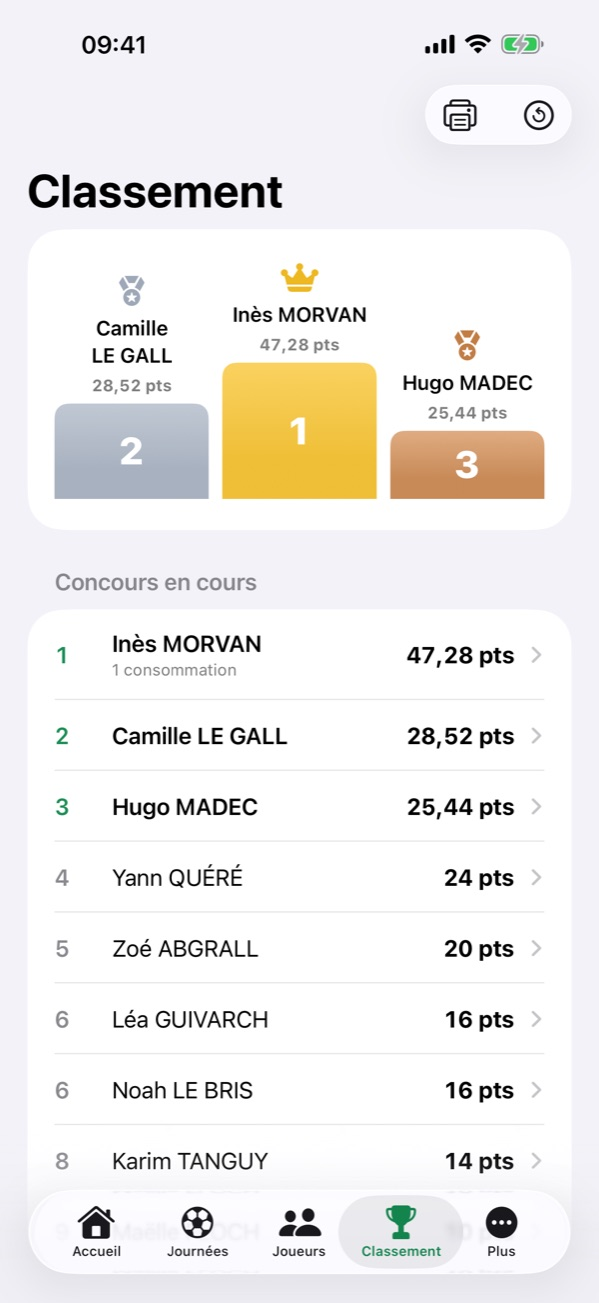
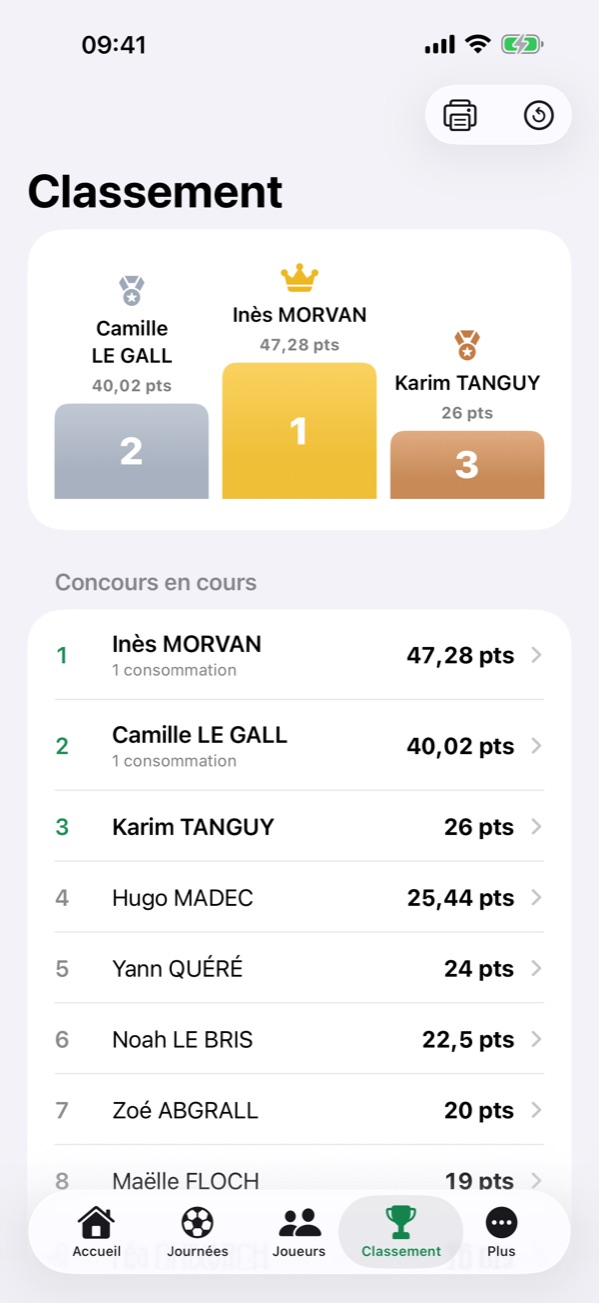
Points de fidélité : les achats au comptoir rapportent des points

diff --git a/conditions.html b/conditions.html
@@ -46,13 +46,17 @@
   <h2>3. Un jeu à points virtuels, sans argent</h2>
   <p>Bob 1N2 sert à organiser un concours de pronostics sportifs dont l'enjeu est un nombre de
   <strong>points virtuels</strong>. L'application ne permet de miser, gagner, acheter ni retirer
-  <strong>aucune somme d'argent</strong> : elle ne traite aucun paiement et ne vend aucun point.</p>
+  <strong>aucune somme d'argent</strong> : elle ne traite aucun paiement et ne vend aucun point. Si
+  vous activez les points de fidélité, elle enregistre le montant d'un achat réglé au comptoir pour
+  calculer les points qu'il rapporte, mais n'encaisse rien.</p>
   <p>Vous êtes l'organisateur du concours que vous tenez avec l'application : c'est vous qui
   décidez comment les joueurs obtiennent leurs points et ce qu'ils leur valent. Il vous appartient
   de respecter la réglementation applicable aux jeux et concours dans votre pays, notamment
   l'interdiction des jeux d'argent et de hasard non autorisés : en particulier, les points ne
-  doivent être ni vendus, ni échangés contre de l'argent. Les cotes saisies sont les vôtres ;
-  elles ne proviennent d'aucun opérateur de paris.</p>
+  doivent être ni vendus, ni échangés contre de l'argent. Si des points s'obtiennent en
+  consommant, vérifiez que votre concours respecte les règles applicables aux jeux et concours
+  liés à un achat. Les cotes saisies sont les vôtres ; elles ne proviennent d'aucun opérateur de
+  paris.</p>
   <p><strong>Apple n'est ni organisateur, ni sponsor, ni partenaire</strong> des concours tenus au
   moyen de l'application, et n'y est impliqué d'aucune manière.</p>
 

diff --git a/assistance.html b/assistance.html
@@ -152,8 +152,17 @@
   <p>Dans Réglages, « Code oublié ? » vous demande Face ID, Touch ID ou le code de l'appareil : une fois
   reconnu, vous choisissez un nouveau code. Joueurs et paris sont conservés.</p>
 
-  <h3>Comment échanger des points contre des consommations ?</h3>
-  <p>Sur la fiche du joueur, « Consommer » indique combien de consommations couvre son solde et débite
+  <h3>Comment les achats rapportent-ils des points ?</h3>
+  <p>Réglez la règle dans Réglages › Points de fidélité : « pour une dépense de … € », « … points
+  gagnés », au prorata ou seulement par tranche entière (le reste compte alors pour les achats suivants).
+  À chaque consommation payée hors paris, touchez « Achat » sur la fiche du joueur (ou glissez son nom
+  vers la droite dans la liste, ou le chariot de l'accueil), tapez le montant ou utilisez « +2 € »,
+  « +5 € »… : les points gagnés s'affichent, le barman valide, et l'achat reste dans l'historique. Les
+  points s'ajoutent au porte-feuilles, avec ceux des paris ; l'accueil totalise les achats du concours.
+  L'application n'encaisse rien : le paiement se fait au comptoir, comme d'habitude.</p>
+
+  <h3>Comment offrir une consommation contre des points ?</h3>
+  <p>Sur la fiche du joueur, « Conso offerte » indique combien de consommations couvre son solde et débite
   les points de celles qu'il prend. Le nombre de points par consommation se règle dans Réglages
   (40 par défaut).</p>
 

diff --git a/index.html b/index.html
@@ -94,7 +94,9 @@
   <h2>Le porte-feuilles et le concours</h2>
   <ul>
     <li>Chaque joueur a son porte-feuilles et l'historique de tous ses mouvements.</li>
-    <li>Rajout de points, échange de points contre des consommations (40 points par défaut, réglable),
+    <li><strong>Points de fidélité</strong> — chaque consommation payée au comptoir peut rapporter des
+    points, au taux que vous réglez (1 point par euro, 5 points par tranche de 10 €…).</li>
+    <li>Rajout de points, consommations offertes contre des points (40 points par défaut, réglable),
     correction : chaque opération du barman est tracée.</li>
     <li>Un podium et un classement à afficher ou imprimer ; un nouveau concours remet les compteurs à
     zéro et garde le podium au palmarès.</li>

diff --git a/confidentialite.html b/confidentialite.html
@@ -53,7 +53,8 @@
   <table>
     <tr><th>Ce qui est gardé</th><th>Pourquoi</th></tr>
     <tr><td>Les joueurs : prénom, nom, numéro, porte-feuilles de points et l'historique de ses
-    mouvements</td><td>Tenir le compte de chacun et établir le classement</td></tr>
+    mouvements, dont le montant des achats au comptoir enregistrés pour les points de fidélité</td>
+    <td>Tenir le compte de chacun et établir le classement</td></tr>
     <tr><td>Les journées : matchs, cotes, résultats ; les paris de chaque joueur</td><td>Calculer les
     gains et les verser</td></tr>
     <tr><td>Les championnats : nom, adresse de leur page de résultats, classements collés ; le palmarès
